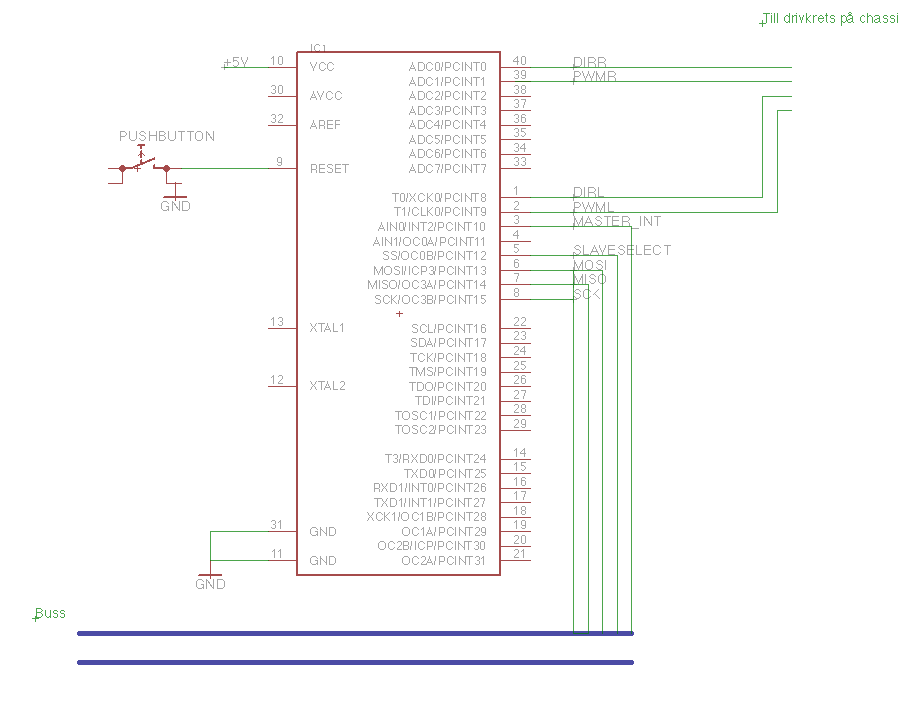
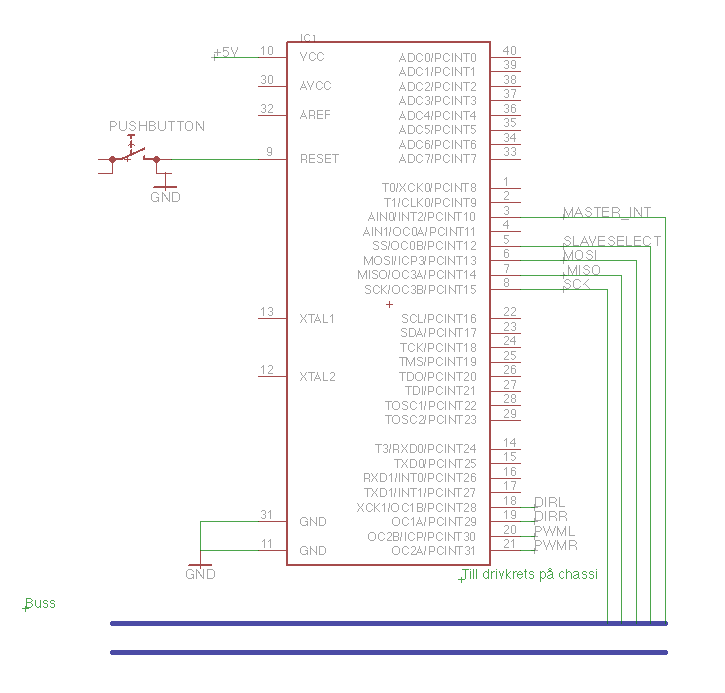
Added new pictures and changed some text, version 1.0

diff --git a/Designspec/Designspec.tex b/Designspec/Designspec.tex
@@ -179,6 +179,7 @@ Fall 4: PC signalerar nödstop, se figur~\ref{fig:case4flow}.
   \item Blåtandsdongel, Firefly, BlueSmirf Gold
   \item LCD-Display
   \item Två stycken knappar
+  \item Kristalloscillator EXO-3, 14.745 MHz
 \end{itemize}
 
 \subsection{Buss}
@@ -505,7 +506,7 @@ GND på sensorerna sätts till jord, Vcc och Vin sätts till hög och PIN 3 på 
 Data från sensorerna behövs för att detektera väggar och skapa en kartabstraktion. Data från sensorerna för långdistans används dessutom för att beräkna tillryggalagd sträcka medans sensorerna på sidan används för att reglera roboten under färd.
 
 \subsubsection{Vinkelhastighetssensor (gyro)}
-För att underlätta beräkningar av körriktningar och hålla koll på hur mycket roboten svängt används en vinkelhastighetssensor eller gyro, MLX\-90\-609 på Vanheden \footnote{https://docs.isy.liu.se/twiki/pub/VanHeden/DataSheets/MLX90609\_datasheet.pdf}. OUTAR på gyron, PIN 24, kopplas till port A, PIN 34, på processorn Gyron skickar alltså sin data till processorn för A/D-omvandling och tolkning. Gryot skickar en spänning mellan 0.5 och 4.5 V där 2.5 V motsvarar vinkelhatsighet noll.
+För att underlätta beräkningar av körriktningar och hålla koll på hur mycket roboten svängt används en vinkelhastighetssensor eller gyro, MLX\-90\-609 på Vanheden \footnote{https://docs.isy.liu.se/twiki/pub/VanHeden/DataSheets/MLX90609\_datasheet.pdf}. OUTAR på gyron, PIN 24, kopplas direkt till bussen för att minska brus. Gryot skickar en spänning mellan 0.5 och 4.5 V där 2.5 V motsvarar vinkelhatsighet noll.
 
 Vinkelberäkning kommer ske med följande formel: \newline
 $ a(k) = a(k-1)+0.5T(\delta a(k)+\delta a(k-1))$ \\
@@ -529,7 +530,7 @@ Sensorerna kommer att vara placerade engligt bilden i figur~\ref{fig:sensoroverv
 
 \begin{figure}[ht] %Placera här om det finns plats, annars så snart som möjligt, på toppen av en sida.
   \begin{center}
-  \includegraphics[keepaspectratio=true,width=\linewidth]{komschema.jpg}  %skala och filnamn. 
+  \includegraphics[keepaspectratio=true,width=\linewidth]{komschema.png}  %skala och filnamn. 
   \end{center}
   \caption{Kopplingsschema kommunikationsmodul} %figurtext.
   \label{fig:kopplingkom} %glöm inte att uppdatera era labels
@@ -553,7 +554,7 @@ Sensorerna kommer att vara placerade engligt bilden i figur~\ref{fig:sensoroverv
 
 \begin{figure}[ht] %Placera här om det finns plats, annars så snart som möjligt, på toppen av en sida.
   \begin{center}
-  \includegraphics[keepaspectratio=true,width=\linewidth]{sensormodulkoppling.jpg}  %skala och filnamn. 
+  \includegraphics[keepaspectratio=true,width=\linewidth]{sensormodulkoppling.png}  %skala och filnamn. 
   \end{center}
   \caption{Kopplingsschema sensormodul} %figurtext.
   \label{fig:kopplingsensor} %glöm inte att uppdatera era labels
